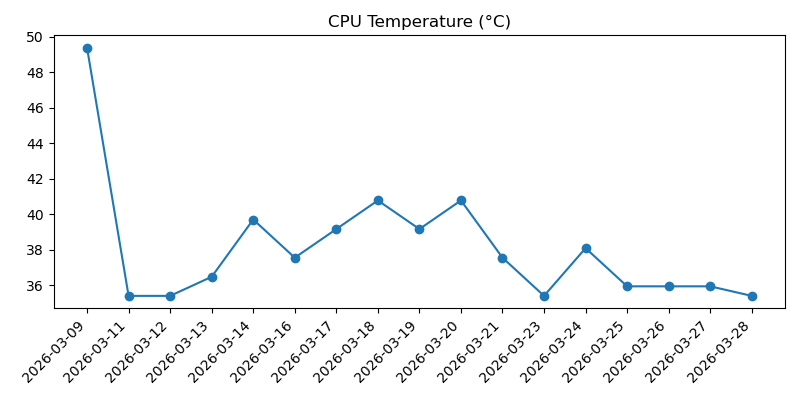
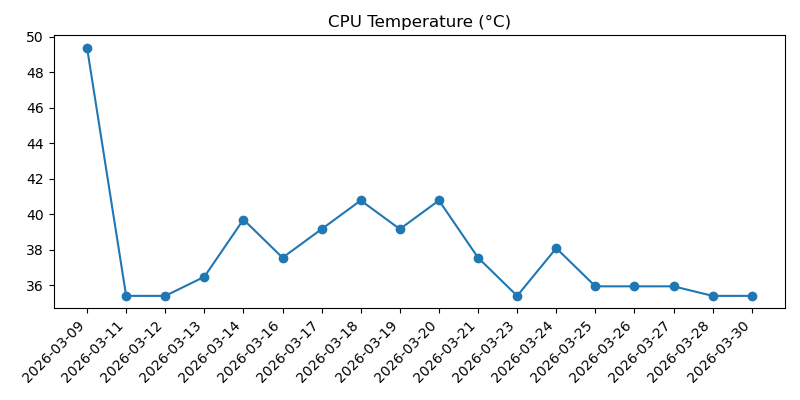
Update Pi daily status

diff --git a/2026-03.md b/2026-03.md
@@ -577,3 +577,37 @@
 - Overall: Good
 - Warning: None
 
+## 2026-03-30 15:46:03
+
+### Machine
+- Uptime: up 2 minutes
+- CPU load (1m, 5m, 15m): 0.21, 0.18, 0.08
+- RAM used: 176 MB / 921 MB (19.1%)
+- Disk used (/): 3.5 GB / 28.8 GB (12.1%)
+- Free disk space (/): 24.1 GB
+- CPU temp: 35.4°C
+- Voltage / throttling: OK
+
+### Reachability
+- Internet check (1.1.1.1): Reachable (3.4 ms)
+
+### Weather
+- Madrid:
+  - Condition: Despejado
+  - Max temp: 18°C
+  - Min temp: 3°C
+  - Feels like: 12°C
+  - Chance of rain: 0%
+  - Warnings: None reported
+- Barcelona:
+  - Condition: Despejado
+  - Max temp: 20°C
+  - Min temp: 8°C
+  - Feels like: 14°C
+  - Chance of rain: 0%
+  - Warnings: None reported
+
+### Health
+- Overall: Good
+- Warning: None
+
